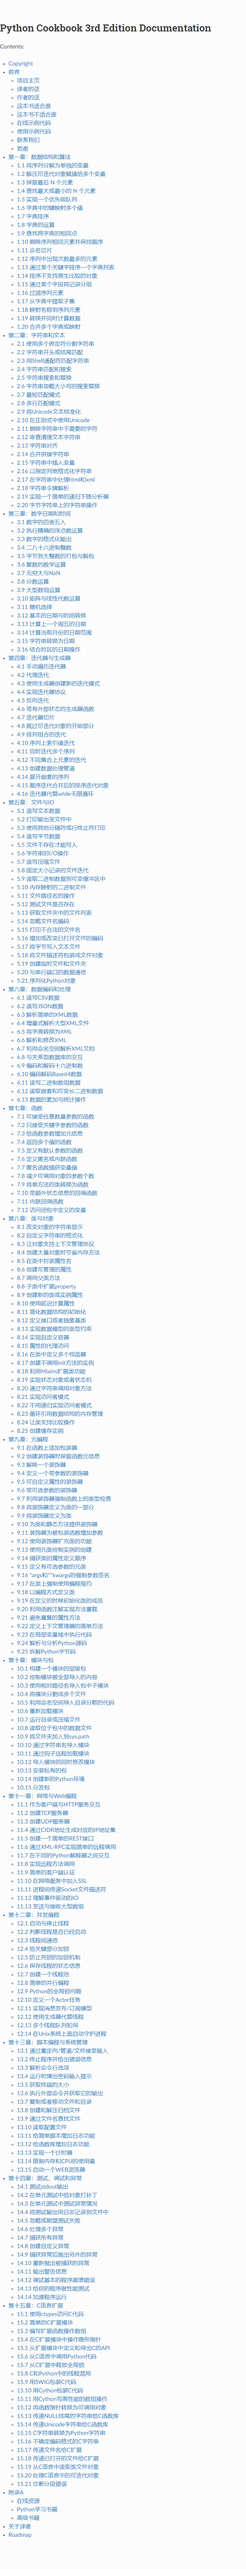
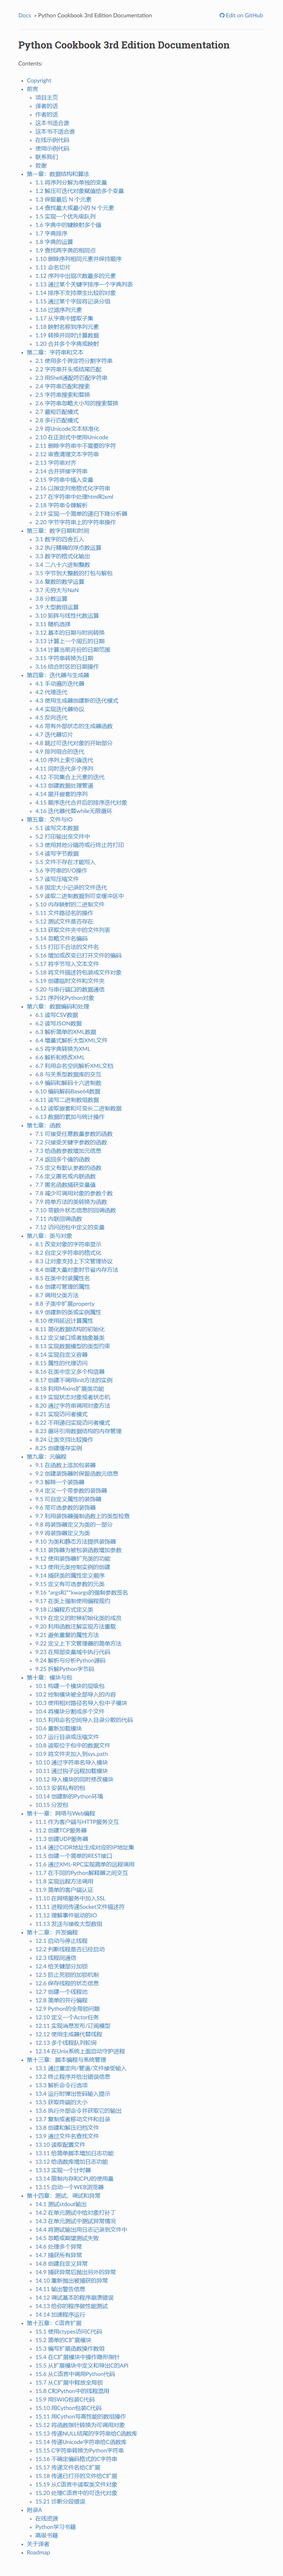
u

Changed region(s): [[0.0302, 0.0, 0.5431, 0.9961], [0.6638, 0.0, 0.8147, 0.0311], [0.5733, 0.0, 0.6034, 0.0311]]

diff --git a/scrapy_test.py b/scrapy_test.py
@@ -1,4 +1,5 @@
 import json
+from PIL import Image
 import logging
 import time
 from selenium import webdriver
@@ -44,18 +45,22 @@ def remove_el(driver,selector):
 
 def screenMenu():
     try:
+        selector = '.wy-nav-content'
         browser.get(main_page)
         # 创建等待对象
         wait_obj = WebDriverWait(browser,10)
         wait_obj.until(
             expected_conditions.presence_of_element_located(
-                (By.CSS_SELECTOR,'#python-cookbook-3rd-edition-documentation')
+                (By.CSS_SELECTOR,selector)
             )
         )
         # 隐式等待
         # browser.implicitly_wait(3)
-        titleEl = browser.find_elements(By.CSS_SELECTOR,"#python-cookbook-3rd-edition-documentation")[0]
-        add_style(browser,'#python-cookbook-3rd-edition-documentation',style_name="padding",style_value='30px 0px ')
+        titleEl = browser.find_elements(By.CSS_SELECTOR,selector)[0]
+        remove_el(browser,'.wy-nav-content footer')
+        add_style(browser,selector,style_name="paddingTop",style_value='30px')
+        add_style(browser,selector,style_name="paddingBottom",style_value='30px')
+ 
         loc = titleEl.location
         size = titleEl.size
         window_with = 1920
@@ -177,8 +182,36 @@ def loop_tree_save_image():
         screenPage(page,'.wy-nav-content')
         time.sleep(1)
 
+# try: 
+#     loop_tree_save_image()
+# except Exception as e:
+#     logging.exception(e)
+# finally: 
+#     pass
+
+def get_image_list():
+    list_str = ''
+    with open('./json/all_menu.json','r',encoding='utf8') as f:
+        list_str = f.read()
+    all_menu = list(json.loads(list_str))
+    TOC_image_path = './images/TOC.png'
+    res_list = []
+    res_list.append(TOC_image_path)
+    res_list = res_list + list(map(lambda item:'./images/%s_%s.png'%(item['pid'],item['id']),all_menu))
+    return res_list
+
+def image_list_2_pdf_by_pillow(list=[]):
+    pdf_dir = './generate_pdf/'
+    if not os.path.exists(pdf_dir):
+        os.makedirs(pdf_dir)
+    # 构造首个image和剩余image list 
+    img_1= Image.open(list[0]).convert('RGB')
+    img_others_list = [Image.open(path ).convert('RGB') for path in list[1:]]
+    img_1.save(os.path.join(pdf_dir,"python_cookbook.pdf"),save_all=True,append_images=img_others_list)
+
 try: 
-    loop_tree_save_image()
+    all_image_list = get_image_list()
+    image_list_2_pdf_by_pillow(all_image_list)
 except Exception as e:
     logging.exception(e)
 finally: 
